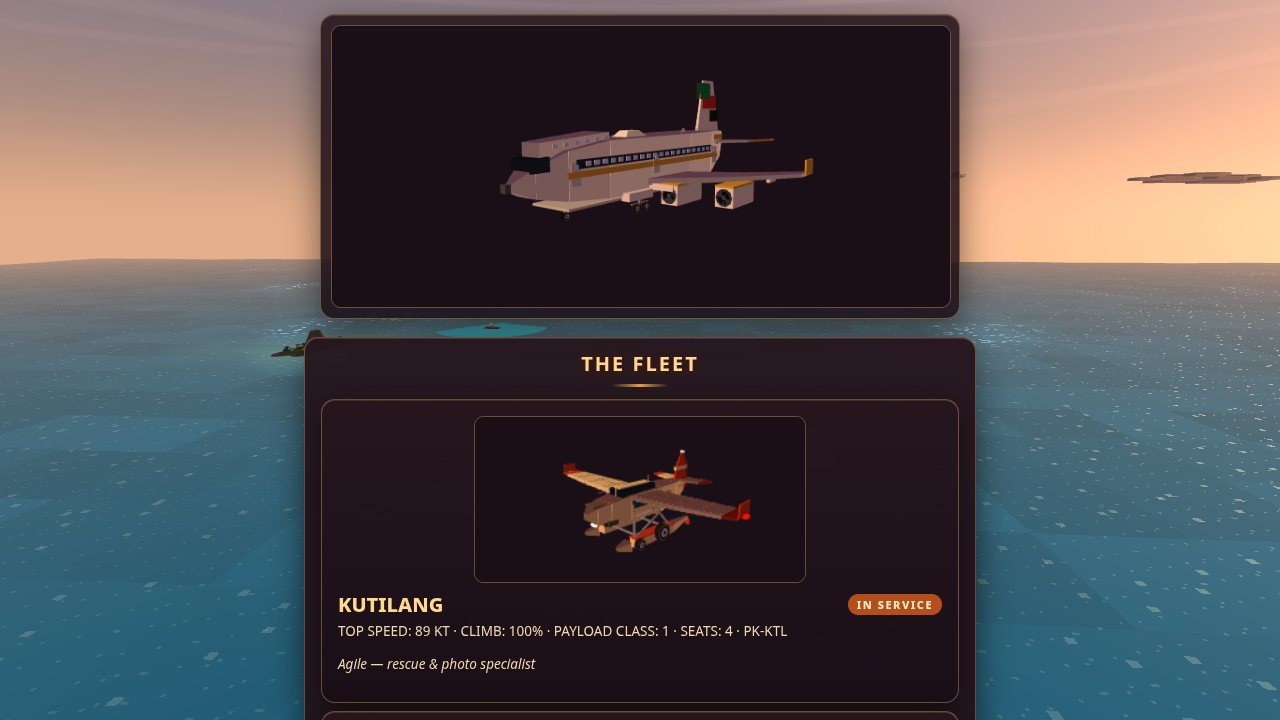
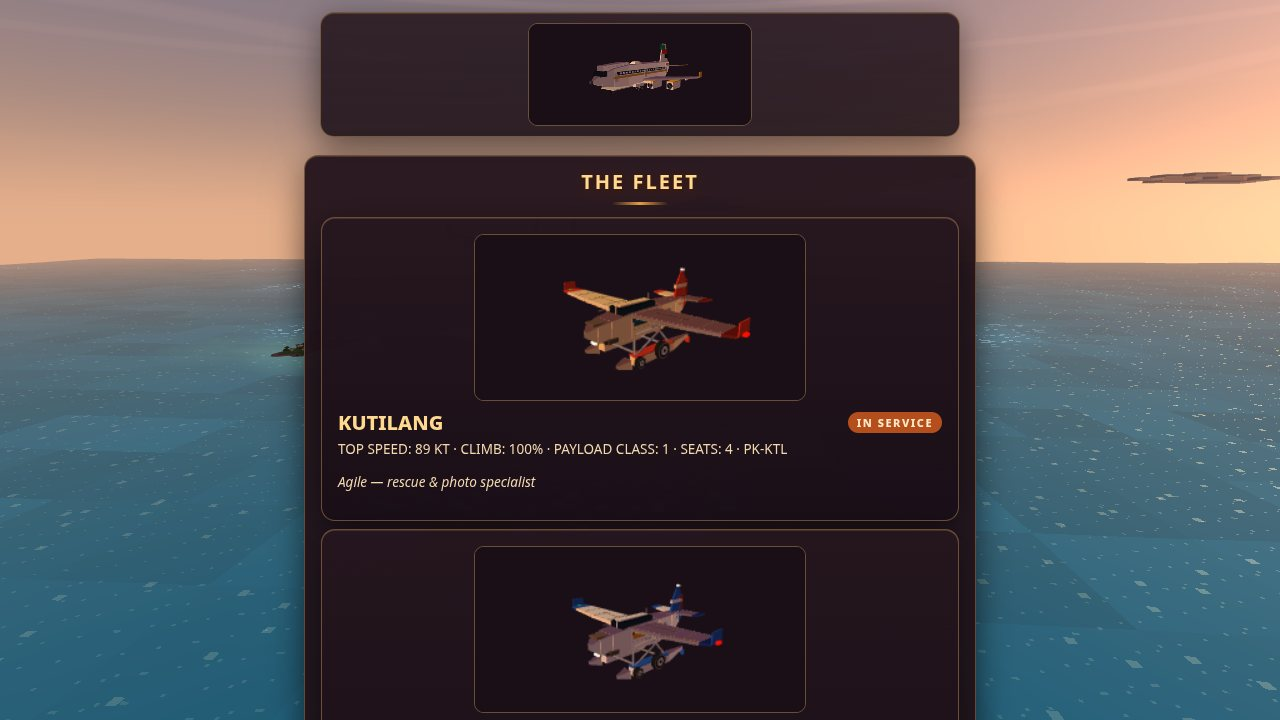
v18.2 dossier: frame 4 recomposed — smaller preview stand, fleet ladder reads two portraits deep
Owner's order: the screenshots must display the missions total,
the planes and the objectives. Frame 3 already carries the
systems (MISSIONS 9/50 header, fare math, stars, NEEDS SEATS);
frame 4 now stands the flagship's preview smaller on its panel
(staging-only display size — buffer, pinned pose and turntable
untouched) so the window holds the whole preview, the fleet
heading, the starter's card whole (SEATS + role line) and the
second airframe's portrait whole beneath it. The staged save
now owns all six airframes as its comment always claimed, and
the upgrade lines are staged mid-refit (engine 2, hull 2).

The upgrade cards themselves cannot join this frame honestly:
in the real layout they stand below all six fleet cards, some
2,200 px of fleet below the first card — no 720p scroll window
holds preview + card + upgrades at legible scale, and a zoom
that fits the span renders their text at ~4 px. They are proven
at natural scale in feel-evidence (v18-hangar-upgrades.jpg) and
the whole hangar in v18-hangar-full.jpg.

shots.json synced to the actual dossier set (3-board, patrol
plane param). Frames 1-3 byte-identical to v18.1; frame 4
byte-identical across two captures. Logic suite 137/137.

diff --git a/game/src/main.js b/game/src/main.js
@@ -2658,24 +2658,40 @@ if (shot === 'flight' || shot === 'receipt') {
   const bs = $('#scr-board'), pl = bs.querySelector('.progressline');
   if (pl) bs.scrollTop = Math.max(0, pl.offsetTop - 12);
 } else if (shot === 'hangar') {
-  // The fleet frame (v16.1): the endgame hangar — the campaign
-  // complete, every airframe hers, the flagship selected so her
-  // jet fills the living preview while the starter heads the fleet
-  // list below. The scroll is pinned by measurement off the
-  // preview panel itself, so at dossier height the frame holds
-  // the whole preview and the first cards whole — the same state
-  // every capture, byte for byte.
+  // The fleet frame (v16.1, recomposed v18.2 on the owner's order
+  // that the screenshots display the planes AND the objectives):
+  // the endgame hangar — the campaign complete, every airframe
+  // hers, the flagship selected so her jet fills the living
+  // preview while the starter heads the fleet list below. The
+  // upgrade lines are staged mid-refit (pips at mixed levels,
+  // live next-level prices) so the state the frame implies is
+  // the state the save holds. The scroll is pinned by
+  // measurement off the preview panel itself, so at dossier
+  // height the frame holds the whole preview and the first
+  // cards whole — the same state every capture, byte for byte.
+  // v18.2: the preview canvas is stood smaller on its panel
+  // (staging-only display size; the drawing buffer, the pinned
+  // pose and the turntable are untouched) so the window also
+  // carries the second airframe's portrait and name — the fleet
+  // ladder reads as a ladder, not a single card. The upgrade
+  // cards stand below all six fleet cards in the real layout
+  // (~2,200 px of fleet between the first card and them), so no
+  // honest 720p scroll window holds preview + card + upgrades
+  // at legible scale; they are proven separately in evidence.
   save.settings.lang = 'en'; t = makeT('en'); save.started = true;
   save.saldo = 900000;
   save.stamps = ['penida', 'lombok', 'sumbawa', 'flores', 'sulawesi', 'maluku', 'papua'];
   save.islandIdx = 7;
-  save.planes.owned = ['kutilang', 'pipit', 'alap', 'bangau', 'raksasa'];
+  save.planes.owned = ['kutilang', 'pipit', 'alap', 'rajawali', 'bangau', 'raksasa'];
   save.planes.active = 'kutilang';
+  save.upgrades = { engine: 2, fuel: 1, hull: 2, handling: 1 };
   setActivePlaneMesh();
   pvState = createPreviewState('raksasa');
   renderHangar(); show('hangar');
   const hs = $('#scr-hangar'), pv = hs.querySelector('.pvcard');
-  if (pv) hs.scrollTop = Math.max(0, pv.offsetTop - 14);
+  const pvc = hs.querySelector('#pvcanvas');
+  if (pvc) { pvc.style.width = '36%'; pvc.style.margin = '0 auto'; }
+  if (pv) hs.scrollTop = Math.max(0, pv.offsetTop - 12);
 } else if (shot === 'title') {
   // The cover backdrop: the title screen flown over the home island —
   // senja light, the land airfield and its mountains behind the logo.
